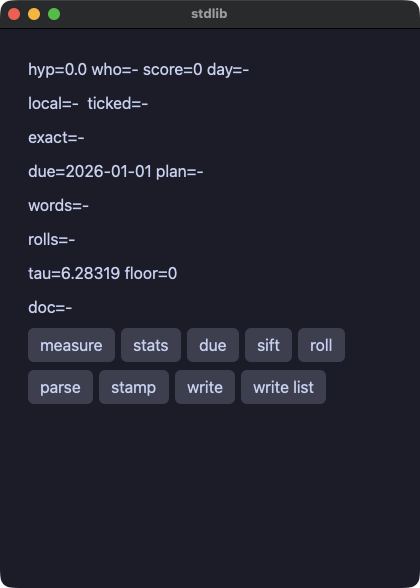
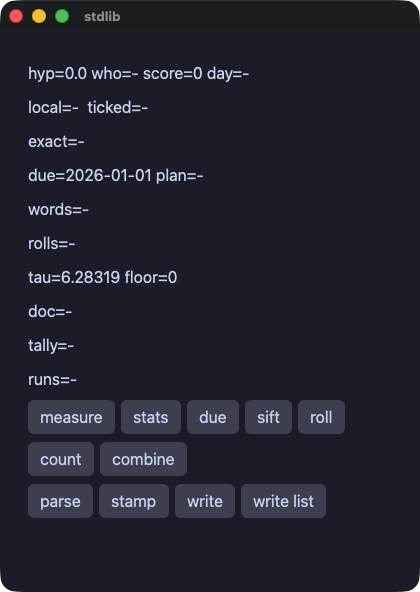
docs(stdlib): collections and itertools, and what each keeps out
The tour's Python half now names `collections` and `itertools`, with
`Counter` and the six combinators listed and an example of each. What
they keep out moves into the closing list with its reason, member by
member, instead of the two module names that used to sit there.

Grouping gets a place in the dict section, since a dict of lists now
reads with an empty-list default. Both languages, both copies.

The stdlib demo grew a count pane and a combine pane, so its gallery
shot was reshot — which is what showed that seven buttons in one row
ran off the window.

diff --git a/crates/yokan/TOUR.ja.md b/crates/yokan/TOUR.ja.md
@@ -564,6 +564,16 @@ def scan():
 無いキーで Python は KeyError を投げるので、無いときにどうするかを言う `.get(key, default)` が読みの形です。
 `.items()` は対で回ります。順序は同じ挿入順です。
 
+リストを値に持つ辞書でグループ分けができます。
+キーが無いときの意味は、空のリストです。
+
+```python
+groups: State[dict[str, list[str]]] = State({})
+
+for w in words():
+    groups[w[0]] = groups().get(w[0], []) + [w]
+```
+
 ## タプル
 
 タプルは位置ごとに部分を持つ値で、Python と同じ書き方で書き、同じ読み方で読みます。
@@ -860,7 +870,7 @@ except Exception as e:
 標準ライブラリは二つに分かれます。
 分かれ目は、名前がどこから来たかです。
 
-**Python 自身のモジュール**は、Python と同じ書き方で使います（`import math`、`import random`、`import statistics`、`import json`、`import datetime`、`import time`、`import re`、`import string`、`import textwrap`、`import bisect`、`import heapq`）。
+**Python 自身のモジュール**は、Python と同じ書き方で使います（`import math`、`import random`、`import statistics`、`import json`、`import datetime`、`import time`、`import re`、`import string`、`import textwrap`、`import bisect`、`import heapq`、`import collections`、`import itertools`）。
 開発中はアプリが CPython のモジュールを import し、CPython がそれを動かします。
 リリースバイナリは CPython の意味に合わせて書いた双子を呼び、CPython 自身が出力した正解表が、関数ごと、エラーごとに双子を縛ります。
 `math.sqrt(-1)` は Python が投げるところで投げ、`statistics.mean([0.1, 0.2, 0.3])` は素朴な和が返す `0.20000000000000004` ではなく厳密な `0.2` を返し、`random.seed(1)` は両方の実行で同じメルセンヌツイスタの列を始め、`json.dumps` は要素の間の `", "` から `\uXXXX` のエスケープまで CPython と同じ文字列を書き、`date` は `timedelta` を足し、別の `date` を引き、Python と同じ書式で自分を描きます。
@@ -912,10 +922,24 @@ Python 側がどこまで届くかは次のとおりです。
 `re` からは `findall`、`sub`、`split`、`escape` と、判定としての `re.search(p, s) is not None`（`match` と `fullmatch` も同じ）。
 パターンはリテラルです。アプリを翻訳する時点でコンパイルするからです。
 `string` からは九つの定数、`textwrap` からは `dedent` と `indent`、`bisect` からは `bisect_left` と `bisect_right`、`heapq` からは `nsmallest` と `nlargest`。
+`collections` からは `Counter`（str のリストを数えます）。
+数えた結果は初めて現れた順に並ぶ辞書で、辞書が答えるものすべてに加えて `.most_common()` と `.total()` を持ちます。
+`State` に入れると辞書として読み戻るので、順位は入れる前に取り出します。
+`itertools` からは `chain`、`pairwise`、`accumulate`、`combinations`、`permutations`、`product`。
+どれも Python ではイテレータを返すので、ここでは `for` で回すものになります。
 `datetime` からは `date`、`datetime`、`timedelta` の三つで、いずれも naive です。
 構築、`today` / `now` / `fromisoformat` / `fromtimestamp` / `fromordinal` / `combine`、各部分（`.year`、`.hour`、`.days` など）、`isoformat`、`strftime`、`weekday`、`toordinal`、`timestamp`、`total_seconds`、算術と比較が使えます。
 穴に置いた値は `str()` と同じ形で描かれます。
 CPython は `mean([1, 2, 3])` に int を、`mean([1, 2, 4])` に float を返すので、int のリストには一つの型が決まらず、断ります。
+
+```python
+c = Counter(votes())                       # {"ivy": 3, "momo": 2, "ada": 1}
+for name, n in c.most_common(2):           # 個数の多い順、同数なら現れた順
+    board.set(board() + f"{name}:{n} ")
+
+for a, b in itertools.pairwise(readings()):
+    steps.set(steps() + [b - a])
+```
 
 sqlite の呼び出しは、どれも最後にバインドする値のリストを取れます。
 
@@ -1221,7 +1245,7 @@ widgets.py:5:40: not in the dialect — text() does not take `weight=`
 - **スカラー、リスト、str キーの辞書、Value クラス、Optional 以外の `@py` の署名**（モデル、入れ子のコンテナ）。
 - **`print`**。stdout はヘッドレス実行の画面ダンプが出る場所なので、`log("…")` が同じ行を両方の実行で stderr に書きます。
 - **Yokan 自身のモジュールでは**：ファイルの属性（サイズ、時刻）とコピーや改名、ストリーミングやバイナリのダウンロード。
-- **Python のモジュールでは**：`math` の六つ（それぞれ理由を名指しして断ります）、`random` の `shuffle`（リストをその場で並べ替えるものですが、ここではリストは `State` の中にあります。`random.sample(xs(), len(xs()))` で新しい順序を取って書き戻します）と `gauss` 以外の分布、int のリストに対する `statistics`（返り値が値によって int か float かに変わるためです）。`json.loads` も断ります。返るものの形が実行するまで決まらないからで、読みは `jsondoc` のパスを通ります。`json.dumps` は、書き下したリテラルなら何段でも入れ子にできますが、アプリが保持している値は一段までです。`datetime` からは、タイムゾーン付きの値（`timezone`、`tzinfo`）、`datetime.time`、`replace`、`strptime`、リストや辞書に入れた `date`、ヘルパの引数としての `date` を断ります。`strftime` は CPython が自ら意味を定める指示子だけを取り、`%c`、`%x`、`%X`、`%-d` は断ります。何を返すかが機械の都合で決まるからです。`re` からは、Match（`re.search` を値として使うこと）と実行時に組み立てたパターンを断ります。後者は `@py` を教えます。小物のモジュールからは、リストをその場で並べ替えるもの（`heapq.heappush`、`bisect.insort`。リストは `State` の中にあります）と、`textwrap.wrap` / `fill` / `shorten`（CPython 自身の正規表現で語を分けます）を断ります。理由を名指しして断るモジュール：`pathlib`、`os`、`collections`、`itertools`、`decimal`、`hashlib`、`base64`、`zoneinfo`。
+- **Python のモジュールでは**：`math` の六つ（それぞれ理由を名指しして断ります）、`random` の `shuffle`（リストをその場で並べ替えるものですが、ここではリストは `State` の中にあります。`random.sample(xs(), len(xs()))` で新しい順序を取って書き戻します）と `gauss` 以外の分布、int のリストに対する `statistics`（返り値が値によって int か float かに変わるためです）。`json.loads` も断ります。返るものの形が実行するまで決まらないからで、読みは `jsondoc` のパスを通ります。`json.dumps` は、書き下したリテラルなら何段でも入れ子にできますが、アプリが保持している値は一段までです。`datetime` からは、タイムゾーン付きの値（`timezone`、`tzinfo`）、`datetime.time`、`replace`、`strptime`、リストや辞書に入れた `date`、ヘルパの引数としての `date` を断ります。`strftime` は CPython が自ら意味を定める指示子だけを取り、`%c`、`%x`、`%X`、`%-d` は断ります。何を返すかが機械の都合で決まるからです。`re` からは、Match（`re.search` を値として使うこと）と実行時に組み立てたパターンを断ります。後者は `@py` を教えます。小物のモジュールからは、リストをその場で並べ替えるもの（`heapq.heappush`、`bisect.insort`。リストは `State` の中にあります）と、`textwrap.wrap` / `fill` / `shorten`（CPython 自身の正規表現で語を分けます）を断ります。`collections` からは `Counter` 以外を断ります：`defaultdict`（キーが無いときに何を返すかは、ここでは読む側が言います）、`deque`（その場で書き換えるものですが、リストは `State` の中にあります）、`namedtuple`（`@value` クラスが型付きで同じことを言います）、`OrderedDict`（ここでの辞書はすでに順序を覚えています）、`ChainMap`。`itertools` からは、終わらないもの（`count`、`cycle`、`repeat`）、それ自体がイテレータを返すもの（`groupby`、`tee`）、関数を取るもの（`starmap`、`takewhile`、`filterfalse`）、最後のタプルだけ形の違う `batched` を断ります。理由を名指しして断るモジュール：`pathlib`、`os`、`decimal`、`hashlib`、`base64`、`zoneinfo`。
 - **新しい要素の周辺**。表の列幅はドラッグで変えられず、行のキーボード操作と複数選択もありません。チャートにはホバーでの読み取りと凡例がありません。`select` はキーボードで操作できません。ツールチップの表示はスクリプトからホバーで確かめられません（文字列自体はダンプに出ます）。いずれもヘッドレスの検証にまだ無い動詞を待っています。
 - **二つめのウィンドウ**。いまは一アプリに一ウィンドウです。engine のウィンドウルートがビューひとつを前提に書かれていて、ヘッドレス実行のダンプもその一本のツリーだからです。ショートカット、クリップボード、メニューバー、ファイルダイアログ、落とされたファイル、ツールチップ、複数行フィールドは入っています。
 - **素のラッパを超えるデコレータの形**：自分が引数を取るもの、ラッパが関数を二度呼ぶもの、関数の戻り値を使うもの。関数をそのまま返すデコレータと、一度だけ呼ぶラッパはコンパイルされます。

diff --git a/crates/yokan/TOUR.md b/crates/yokan/TOUR.md
@@ -548,6 +548,15 @@ A compiled dict remembers the order its keys went in, so a walk visits them in t
 Bare `d[k]` reads are refused: they raise `KeyError` when the key is missing, and `.get(key, default)` says what a missing key means.
 `.items()` walks the pairs, in the same insertion order.
 
+A dict of lists groups, with the empty list as what a missing key means:
+
+```python
+groups: State[dict[str, list[str]]] = State({})
+
+for w in words():
+    groups[w[0]] = groups().get(w[0], []) + [w]
+```
+
 ## Tuples
 
 A tuple is a value with a part for each position, written and read the way Python writes one.
@@ -851,7 +860,7 @@ except Exception as e:
 
 It comes in two halves, told apart by where the name comes from.
 
-**Python's own modules**, written the way Python writes them: `import math`, `import random`, `import statistics`, `import json`, `import datetime`, `import time`, `import re`, `import string`, `import textwrap`, `import bisect`, `import heapq`.
+**Python's own modules**, written the way Python writes them: `import math`, `import random`, `import statistics`, `import json`, `import datetime`, `import time`, `import re`, `import string`, `import textwrap`, `import bisect`, `import heapq`, `import collections`, `import itertools`.
 During development the app imports CPython's module and CPython runs it.
 The shipped binary calls a twin written against CPython's semantics, and a table of answers CPython itself printed holds the twin to it, function by function and error by error.
 `math.sqrt(-1)` raises where Python raises; `statistics.mean([0.1, 0.2, 0.3])` is `0.2`, the exact answer, not the `0.20000000000000004` a plain sum gives; `random.seed(1)` starts the same Mersenne Twister sequence in both runs; `json.dumps` writes what CPython writes, down to the `", "` between the parts and the `\uXXXX` escapes; a `date` adds a `timedelta`, subtracts another date and formats itself the way Python's does; and a regular expression is compiled by CPython itself while the app translates, so the shipped binary runs the very array Python would have run — the backtracking, the groups and the flags are CPython's, not a second dialect of them.
@@ -898,7 +907,19 @@ From `json`: `dumps`, with CPython's defaults and no keyword arguments.
 From `time`: `time`, `time_ns`, `monotonic`, `monotonic_ns`, `perf_counter`, `perf_counter_ns`, `sleep`.
 From `re`: `findall`, `sub`, `split`, `escape`, and `re.search(p, s) is not None` (with `match` and `fullmatch`) as the test. The pattern is a literal, because it is compiled while the app translates.
 From `string`: the nine constants. From `textwrap`: `dedent` and `indent`. From `bisect`: `bisect_left`, `bisect_right`. From `heapq`: `nsmallest`, `nlargest`.
+From `collections`: `Counter`, over a list of str — the dict of counts, keyed in first-seen order, with `.most_common()` and `.total()` beside everything a dict answers.
+A Counter held in a `State` reads back as the dict it is, so take the counts out before storing it.
+From `itertools`: `chain`, `pairwise`, `accumulate`, `combinations`, `permutations` and `product`, each of which answers an iterator in Python and is therefore what a `for` walks here.
 From `datetime`: `date`, `datetime` and `timedelta`, all of them naive — construction, `today` / `now` / `fromisoformat` / `fromtimestamp` / `fromordinal` / `combine`, the parts (`.year`, `.hour`, `.days`, …), `isoformat`, `strftime`, `weekday`, `toordinal`, `timestamp`, `total_seconds`, arithmetic and comparison. A value renders in a hole the way `str()` renders it.
+
+```python
+c = Counter(votes())                       # {"ivy": 3, "momo": 2, "ada": 1}
+for name, n in c.most_common(2):           # by count, ties in first-seen order
+    board.set(board() + f"{name}:{n} ")
+
+for a, b in itertools.pairwise(readings()):
+    steps.set(steps() + [b - a])
+```
 
 Every sqlite call takes one more argument, a list of values to bind:
 
@@ -1209,7 +1230,7 @@ What Yokan cannot do as of today, with the reason for each refusal:
 - **`@py` signatures beyond scalars, lists, str-keyed dicts, value classes and Optionals** (models, nested containers).
 - **`print`.** It writes to stdout, which is where a headless run's screen dump goes; `log("…")` writes the same line to stderr in both runs.
 - **In Yokan's own modules**: file metadata (size, times) and copying or renaming, and streaming or binary downloads.
-- **In Python's modules**: six members of `math` (each refused by name with its reason), `random`'s `shuffle` (it reorders a list in place, and a list lives in a `State` — take a new order with `random.sample(xs(), len(xs()))` and write it back) and its distributions beyond `gauss`, and `statistics` over a list of ints (its answer would be an int or a float depending on the values). From `datetime`: an aware value (`timezone`, `tzinfo`), `datetime.time`, `replace`, `strptime`, a `date` in a list or a dict, and a `date` as a helper's parameter. `strftime` takes the directives CPython gives a meaning of its own; `%c`, `%x`, `%X` and `%-d` are refused, because what they answer is the machine's business. `json.loads` is refused too: what it answers has no shape until it runs, so reads go through `jsondoc`'s paths, and a `json.dumps` of a value the app is holding reaches one level of nesting where a literal reaches any. From `re`: a `Match` (`re.search` used as a value), and a pattern built at run time — both refused by name, the second one pointing at `@py`. From the small modules: what rearranges a list in place (`heapq.heappush`, `bisect.insort`), because a list lives in a `State` here, and `textwrap.wrap` / `fill` / `shorten`, which split words with a regular expression of CPython's own. Modules that stay out for a reason the refusal names: `pathlib`, `os`, `collections`, `itertools`, `decimal`, `hashlib`, `base64`, `zoneinfo`.
+- **In Python's modules**: six members of `math` (each refused by name with its reason), `random`'s `shuffle` (it reorders a list in place, and a list lives in a `State` — take a new order with `random.sample(xs(), len(xs()))` and write it back) and its distributions beyond `gauss`, and `statistics` over a list of ints (its answer would be an int or a float depending on the values). From `datetime`: an aware value (`timezone`, `tzinfo`), `datetime.time`, `replace`, `strptime`, a `date` in a list or a dict, and a `date` as a helper's parameter. `strftime` takes the directives CPython gives a meaning of its own; `%c`, `%x`, `%X` and `%-d` are refused, because what they answer is the machine's business. `json.loads` is refused too: what it answers has no shape until it runs, so reads go through `jsondoc`'s paths, and a `json.dumps` of a value the app is holding reaches one level of nesting where a literal reaches any. From `re`: a `Match` (`re.search` used as a value), and a pattern built at run time — both refused by name, the second one pointing at `@py`. From the small modules: what rearranges a list in place (`heapq.heappush`, `bisect.insort`), because a list lives in a `State` here, and `textwrap.wrap` / `fill` / `shorten`, which split words with a regular expression of CPython's own. From `collections`: everything but `Counter` — `defaultdict` (what a missing key answers is asked at the read here), `deque` (it works in place, and a list lives in a `State`), `namedtuple` (a `@value` class says it with types), `OrderedDict` (a dict here already keeps its order) and `ChainMap`. From `itertools`: what never ends (`count`, `cycle`, `repeat`), what yields an iterator of its own (`groupby`, `tee`), what takes a function (`starmap`, `takewhile`, `filterfalse`) and `batched`, whose last tuple is a different shape from the rest. Modules that stay out for a reason the refusal names: `pathlib`, `os`, `decimal`, `hashlib`, `base64`, `zoneinfo`.
 - **Around the new elements**: a table's columns cannot be resized by dragging, and its rows have no keyboard navigation or multi-select; charts have no hover readout and no legend; `select` has no keyboard operation; a tooltip's appearance is not something a script can hover for (its text is in the dump). Each waits on a verb the headless harness does not have yet.
 - **A second window.** One app, one window today: the engine's window root is written for a single view, and a headless run's dump is that one tree. Shortcuts, the clipboard, the menu bar, file dialogs, dropped files, tooltips and the multi-line field are all in.
 - **Decorator shapes beyond a plain wrapper**: one that takes arguments of its own, one whose wrapper calls the function twice or uses its value. A decorator that returns the function, or a wrapper calling it once, compiles.

diff --git a/website/docs-ja/tour-ship.md b/website/docs-ja/tour-ship.md
@@ -121,7 +121,7 @@ widgets.py:5:40: not in the dialect — text() does not take `weight=`
 - **スカラー、リスト、str キーの辞書、Value クラス、Optional 以外の `@py` の署名**（モデル、入れ子のコンテナ）。
 - **`print`**。stdout はヘッドレス実行の画面ダンプが出る場所なので、`log("…")` が同じ行を両方の実行で stderr に書きます。
 - **Yokan 自身のモジュールでは**：ファイルの属性（サイズ、時刻）とコピーや改名、ストリーミングやバイナリのダウンロード。
-- **Python のモジュールでは**：`math` の六つ（それぞれ理由を名指しして断ります）、`random` の `shuffle`（リストをその場で並べ替えるものですが、ここではリストは `State` の中にあります。`random.sample(xs(), len(xs()))` で新しい順序を取って書き戻します）と `gauss` 以外の分布、int のリストに対する `statistics`（返り値が値によって int か float かに変わるためです）。`json.loads` も断ります。返るものの形が実行するまで決まらないからで、読みは `jsondoc` のパスを通ります。`json.dumps` は、書き下したリテラルなら何段でも入れ子にできますが、アプリが保持している値は一段までです。`datetime` からは、タイムゾーン付きの値（`timezone`、`tzinfo`）、`datetime.time`、`replace`、`strptime`、リストや辞書に入れた `date`、ヘルパの引数としての `date` を断ります。`strftime` は CPython が自ら意味を定める指示子だけを取り、`%c`、`%x`、`%X`、`%-d` は断ります。何を返すかが機械の都合で決まるからです。`re` からは、Match（`re.search` を値として使うこと）と実行時に組み立てたパターンを断ります。後者は `@py` を教えます。小物のモジュールからは、リストをその場で並べ替えるもの（`heapq.heappush`、`bisect.insort`。リストは `State` の中にあります）と、`textwrap.wrap` / `fill` / `shorten`（CPython 自身の正規表現で語を分けます）を断ります。理由を名指しして断るモジュール：`pathlib`、`os`、`collections`、`itertools`、`decimal`、`hashlib`、`base64`、`zoneinfo`。
+- **Python のモジュールでは**：`math` の六つ（それぞれ理由を名指しして断ります）、`random` の `shuffle`（リストをその場で並べ替えるものですが、ここではリストは `State` の中にあります。`random.sample(xs(), len(xs()))` で新しい順序を取って書き戻します）と `gauss` 以外の分布、int のリストに対する `statistics`（返り値が値によって int か float かに変わるためです）。`json.loads` も断ります。返るものの形が実行するまで決まらないからで、読みは `jsondoc` のパスを通ります。`json.dumps` は、書き下したリテラルなら何段でも入れ子にできますが、アプリが保持している値は一段までです。`datetime` からは、タイムゾーン付きの値（`timezone`、`tzinfo`）、`datetime.time`、`replace`、`strptime`、リストや辞書に入れた `date`、ヘルパの引数としての `date` を断ります。`strftime` は CPython が自ら意味を定める指示子だけを取り、`%c`、`%x`、`%X`、`%-d` は断ります。何を返すかが機械の都合で決まるからです。`re` からは、Match（`re.search` を値として使うこと）と実行時に組み立てたパターンを断ります。後者は `@py` を教えます。小物のモジュールからは、リストをその場で並べ替えるもの（`heapq.heappush`、`bisect.insort`。リストは `State` の中にあります）と、`textwrap.wrap` / `fill` / `shorten`（CPython 自身の正規表現で語を分けます）を断ります。`collections` からは `Counter` 以外を断ります：`defaultdict`（キーが無いときに何を返すかは、ここでは読む側が言います）、`deque`（その場で書き換えるものですが、リストは `State` の中にあります）、`namedtuple`（`@value` クラスが型付きで同じことを言います）、`OrderedDict`（ここでの辞書はすでに順序を覚えています）、`ChainMap`。`itertools` からは、終わらないもの（`count`、`cycle`、`repeat`）、それ自体がイテレータを返すもの（`groupby`、`tee`）、関数を取るもの（`starmap`、`takewhile`、`filterfalse`）、最後のタプルだけ形の違う `batched` を断ります。理由を名指しして断るモジュール：`pathlib`、`os`、`decimal`、`hashlib`、`base64`、`zoneinfo`。
 - **新しい要素の周辺**。表の列幅はドラッグで変えられず、行のキーボード操作と複数選択もありません。チャートにはホバーでの読み取りと凡例がありません。`select` はキーボードで操作できません。ツールチップの表示はスクリプトからホバーで確かめられません（文字列自体はダンプに出ます）。いずれもヘッドレスの検証にまだ無い動詞を待っています。
 - **二つめのウィンドウ**。いまは一アプリに一ウィンドウです。engine のウィンドウルートがビューひとつを前提に書かれていて、ヘッドレス実行のダンプもその一本のツリーだからです。ショートカット、クリップボード、メニューバー、ファイルダイアログ、落とされたファイル、ツールチップ、複数行フィールドは入っています。
 - **素のラッパを超えるデコレータの形**：自分が引数を取るもの、ラッパが関数を二度呼ぶもの、関数の戻り値を使うもの。関数をそのまま返すデコレータと、一度だけ呼ぶラッパはコンパイルされます。

diff --git a/website/docs/tour-ship.md b/website/docs/tour-ship.md
@@ -119,7 +119,7 @@ What Yokan cannot do as of today, with the reason for each refusal:
 - **`@py` signatures beyond scalars, lists, str-keyed dicts, value classes and Optionals** (models, nested containers).
 - **`print`.** It writes to stdout, which is where a headless run's screen dump goes; `log("…")` writes the same line to stderr in both runs.
 - **In Yokan's own modules**: file metadata (size, times) and copying or renaming, and streaming or binary downloads.
-- **In Python's modules**: six members of `math` (each refused by name with its reason), `random`'s `shuffle` (it reorders a list in place, and a list lives in a `State` — take a new order with `random.sample(xs(), len(xs()))` and write it back) and its distributions beyond `gauss`, and `statistics` over a list of ints (its answer would be an int or a float depending on the values). From `datetime`: an aware value (`timezone`, `tzinfo`), `datetime.time`, `replace`, `strptime`, a `date` in a list or a dict, and a `date` as a helper's parameter. `strftime` takes the directives CPython gives a meaning of its own; `%c`, `%x`, `%X` and `%-d` are refused, because what they answer is the machine's business. `json.loads` is refused too: what it answers has no shape until it runs, so reads go through `jsondoc`'s paths, and a `json.dumps` of a value the app is holding reaches one level of nesting where a literal reaches any. From `re`: a `Match` (`re.search` used as a value), and a pattern built at run time — both refused by name, the second one pointing at `@py`. From the small modules: what rearranges a list in place (`heapq.heappush`, `bisect.insort`), because a list lives in a `State` here, and `textwrap.wrap` / `fill` / `shorten`, which split words with a regular expression of CPython's own. Modules that stay out for a reason the refusal names: `pathlib`, `os`, `collections`, `itertools`, `decimal`, `hashlib`, `base64`, `zoneinfo`.
+- **In Python's modules**: six members of `math` (each refused by name with its reason), `random`'s `shuffle` (it reorders a list in place, and a list lives in a `State` — take a new order with `random.sample(xs(), len(xs()))` and write it back) and its distributions beyond `gauss`, and `statistics` over a list of ints (its answer would be an int or a float depending on the values). From `datetime`: an aware value (`timezone`, `tzinfo`), `datetime.time`, `replace`, `strptime`, a `date` in a list or a dict, and a `date` as a helper's parameter. `strftime` takes the directives CPython gives a meaning of its own; `%c`, `%x`, `%X` and `%-d` are refused, because what they answer is the machine's business. `json.loads` is refused too: what it answers has no shape until it runs, so reads go through `jsondoc`'s paths, and a `json.dumps` of a value the app is holding reaches one level of nesting where a literal reaches any. From `re`: a `Match` (`re.search` used as a value), and a pattern built at run time — both refused by name, the second one pointing at `@py`. From the small modules: what rearranges a list in place (`heapq.heappush`, `bisect.insort`), because a list lives in a `State` here, and `textwrap.wrap` / `fill` / `shorten`, which split words with a regular expression of CPython's own. From `collections`: everything but `Counter` — `defaultdict` (what a missing key answers is asked at the read here), `deque` (it works in place, and a list lives in a `State`), `namedtuple` (a `@value` class says it with types), `OrderedDict` (a dict here already keeps its order) and `ChainMap`. From `itertools`: what never ends (`count`, `cycle`, `repeat`), what yields an iterator of its own (`groupby`, `tee`), what takes a function (`starmap`, `takewhile`, `filterfalse`) and `batched`, whose last tuple is a different shape from the rest. Modules that stay out for a reason the refusal names: `pathlib`, `os`, `decimal`, `hashlib`, `base64`, `zoneinfo`.
 - **Around the new elements**: a table's columns cannot be resized by dragging, and its rows have no keyboard navigation or multi-select; charts have no hover readout and no legend; `select` has no keyboard operation; a tooltip's appearance is not something a script can hover for (its text is in the dump). Each waits on a verb the headless harness does not have yet.
 - **A second window.** One app, one window today: the engine's window root is written for a single view, and a headless run's dump is that one tree. Shortcuts, the clipboard, the menu bar, file dialogs, dropped files, tooltips and the multi-line field are all in.
 - **Decorator shapes beyond a plain wrapper**: one that takes arguments of its own, one whose wrapper calls the function twice or uses its value. A decorator that returns the function, or a wrapper calling it once, compiles.

diff --git a/website/docs-ja/tour-lib.md b/website/docs-ja/tour-lib.md
@@ -26,7 +26,7 @@ except Exception as e:
 標準ライブラリは二つに分かれます。
 分かれ目は、名前がどこから来たかです。
 
-**Python 自身のモジュール**は、Python と同じ書き方で使います（`import math`、`import random`、`import statistics`、`import json`、`import datetime`、`import time`、`import re`、`import string`、`import textwrap`、`import bisect`、`import heapq`）。
+**Python 自身のモジュール**は、Python と同じ書き方で使います（`import math`、`import random`、`import statistics`、`import json`、`import datetime`、`import time`、`import re`、`import string`、`import textwrap`、`import bisect`、`import heapq`、`import collections`、`import itertools`）。
 開発中はアプリが CPython のモジュールを import し、CPython がそれを動かします。
 リリースバイナリは CPython の意味に合わせて書いた双子を呼び、CPython 自身が出力した正解表が、関数ごと、エラーごとに双子を縛ります。
 `math.sqrt(-1)` は Python が投げるところで投げ、`statistics.mean([0.1, 0.2, 0.3])` は素朴な和が返す `0.20000000000000004` ではなく厳密な `0.2` を返し、`random.seed(1)` は両方の実行で同じメルセンヌツイスタの列を始め、`json.dumps` は要素の間の `", "` から `\uXXXX` のエスケープまで CPython と同じ文字列を書き、`date` は `timedelta` を足し、別の `date` を引き、Python と同じ書式で自分を描きます。
@@ -78,10 +78,24 @@ Python 側がどこまで届くかは次のとおりです。
 `re` からは `findall`、`sub`、`split`、`escape` と、判定としての `re.search(p, s) is not None`（`match` と `fullmatch` も同じ）。
 パターンはリテラルです。アプリを翻訳する時点でコンパイルするからです。
 `string` からは九つの定数、`textwrap` からは `dedent` と `indent`、`bisect` からは `bisect_left` と `bisect_right`、`heapq` からは `nsmallest` と `nlargest`。
+`collections` からは `Counter`（str のリストを数えます）。
+数えた結果は初めて現れた順に並ぶ辞書で、辞書が答えるものすべてに加えて `.most_common()` と `.total()` を持ちます。
+`State` に入れると辞書として読み戻るので、順位は入れる前に取り出します。
+`itertools` からは `chain`、`pairwise`、`accumulate`、`combinations`、`permutations`、`product`。
+どれも Python ではイテレータを返すので、ここでは `for` で回すものになります。
 `datetime` からは `date`、`datetime`、`timedelta` の三つで、いずれも naive です。
 構築、`today` / `now` / `fromisoformat` / `fromtimestamp` / `fromordinal` / `combine`、各部分（`.year`、`.hour`、`.days` など）、`isoformat`、`strftime`、`weekday`、`toordinal`、`timestamp`、`total_seconds`、算術と比較が使えます。
 穴に置いた値は `str()` と同じ形で描かれます。
 CPython は `mean([1, 2, 3])` に int を、`mean([1, 2, 4])` に float を返すので、int のリストには一つの型が決まらず、断ります。
+
+```python
+c = Counter(votes())                       # {"ivy": 3, "momo": 2, "ada": 1}
+for name, n in c.most_common(2):           # 個数の多い順、同数なら現れた順
+    board.set(board() + f"{name}:{n} ")
+
+for a, b in itertools.pairwise(readings()):
+    steps.set(steps() + [b - a])
+```
 
 sqlite の呼び出しは、どれも最後にバインドする値のリストを取れます。
 

diff --git a/website/docs/tour-lib.md b/website/docs/tour-lib.md
@@ -25,7 +25,7 @@ except Exception as e:
 
 It comes in two halves, told apart by where the name comes from.
 
-**Python's own modules**, written the way Python writes them: `import math`, `import random`, `import statistics`, `import json`, `import datetime`, `import time`, `import re`, `import string`, `import textwrap`, `import bisect`, `import heapq`.
+**Python's own modules**, written the way Python writes them: `import math`, `import random`, `import statistics`, `import json`, `import datetime`, `import time`, `import re`, `import string`, `import textwrap`, `import bisect`, `import heapq`, `import collections`, `import itertools`.
 During development the app imports CPython's module and CPython runs it.
 The shipped binary calls a twin written against CPython's semantics, and a table of answers CPython itself printed holds the twin to it, function by function and error by error.
 `math.sqrt(-1)` raises where Python raises; `statistics.mean([0.1, 0.2, 0.3])` is `0.2`, the exact answer, not the `0.20000000000000004` a plain sum gives; `random.seed(1)` starts the same Mersenne Twister sequence in both runs; `json.dumps` writes what CPython writes, down to the `", "` between the parts and the `\uXXXX` escapes; a `date` adds a `timedelta`, subtracts another date and formats itself the way Python's does; and a regular expression is compiled by CPython itself while the app translates, so the shipped binary runs the very array Python would have run — the backtracking, the groups and the flags are CPython's, not a second dialect of them.
@@ -72,7 +72,19 @@ From `json`: `dumps`, with CPython's defaults and no keyword arguments.
 From `time`: `time`, `time_ns`, `monotonic`, `monotonic_ns`, `perf_counter`, `perf_counter_ns`, `sleep`.
 From `re`: `findall`, `sub`, `split`, `escape`, and `re.search(p, s) is not None` (with `match` and `fullmatch`) as the test. The pattern is a literal, because it is compiled while the app translates.
 From `string`: the nine constants. From `textwrap`: `dedent` and `indent`. From `bisect`: `bisect_left`, `bisect_right`. From `heapq`: `nsmallest`, `nlargest`.
+From `collections`: `Counter`, over a list of str — the dict of counts, keyed in first-seen order, with `.most_common()` and `.total()` beside everything a dict answers.
+A Counter held in a `State` reads back as the dict it is, so take the counts out before storing it.
+From `itertools`: `chain`, `pairwise`, `accumulate`, `combinations`, `permutations` and `product`, each of which answers an iterator in Python and is therefore what a `for` walks here.
 From `datetime`: `date`, `datetime` and `timedelta`, all of them naive — construction, `today` / `now` / `fromisoformat` / `fromtimestamp` / `fromordinal` / `combine`, the parts (`.year`, `.hour`, `.days`, …), `isoformat`, `strftime`, `weekday`, `toordinal`, `timestamp`, `total_seconds`, arithmetic and comparison. A value renders in a hole the way `str()` renders it.
+
+```python
+c = Counter(votes())                       # {"ivy": 3, "momo": 2, "ada": 1}
+for name, n in c.most_common(2):           # by count, ties in first-seen order
+    board.set(board() + f"{name}:{n} ")
+
+for a, b in itertools.pairwise(readings()):
+    steps.set(steps() + [b - a])
+```
 
 Every sqlite call takes one more argument, a list of values to bind:
 

diff --git a/crates/yokan/DESIGN.md b/crates/yokan/DESIGN.md
@@ -1294,3 +1294,51 @@ written — and shows up the moment the result is indexed or measured.
 It is now what Python says it is: a `for` iterable. Where a list is
 wanted the spelling is `xs[::-1]`, which is a list in Python too, and
 the refusal for the old shape names it.
+
+## Two of Python's modules are written out, not called
+
+`collections` and `itertools` answer shape rather than arithmetic: a
+count, a pairing, a product. There is nothing for a Rust twin to
+compute — what they need is a loop, and the dialect can write loops.
+So the translator writes the loop each call stands for, and the
+interpreted run, which is CPython's own module, is what the gate
+compares it against. That is a stronger check than a table of
+answers, not a weaker one: the real module is running on the other
+side of every comparison.
+
+This is where the tuples and the generic containers were leading. A
+`Counter` is a dict of counts; `most_common` is a stable sort by the
+count, which the container now does for any element; `pairwise` and
+`combinations` answer lists of tuples, which are values here. Nothing
+new crosses the crate boundary for any of it.
+
+## An iterator belongs in a `for`
+
+Every `itertools` combinator answers a lazy iterator in Python. A
+`for` cannot tell laziness from a list — the same elements in the
+same order, and `break` stops at the same place because the list is
+built before the loop runs — so that is the one place these are
+taken. As a value they are refused, and the refusal names the `for`.
+It is the rule `reversed` already follows.
+
+The combinators that never end (`count`, `cycle`, `repeat`) are
+refused for the reason that makes them useful in Python and useless
+here. The ones that yield an iterator of their own (`groupby`, `tee`)
+have nothing to become. `batched`'s last tuple is a different shape
+from the rest, and a tuple's shape is written out.
+
+## A Counter is a dict, and only a Counter has `most_common`
+
+Python's `Counter` is a dict subclass, so it is a dict here: walked,
+measured, tested with `in`, read with `.get`. What a plain dict does
+not have is `.most_common` and `.total`, and neither does one here —
+the translator remembers which locals came from a `Counter(...)`, and
+a plain dict asking for `.most_common` is refused the way Python
+refuses it.
+
+`defaultdict` is the one member deliberately left out rather than
+deferred. Its whole purpose is to answer for a missing key at the
+dict; this dialect asks that question at the read instead, which is
+the same reason bare `d[k]` is refused. Counting is `Counter`, and
+grouping writes the list back — which now works, because a dict of
+lists reads with `.get(k, [])`.

diff --git a/crates/yokan/skill/SKILL.md b/crates/yokan/skill/SKILL.md
@@ -385,8 +385,8 @@ def tally():
 
 - `if` / `elif` / `else`, `while`, `for` (over `range()` with one or
   two arguments, a list state, a list field, a list parameter,
-  `sorted(d())`, or `sorted(xs)` / `reversed(xs)`), `break` /
-  `continue`, locals (reassignable).
+  `sorted(d())`, `sorted(xs)` / `reversed(xs)`, or an `itertools`
+  combinator), `break` / `continue`, locals (reassignable).
 - A local assigned in **both** arms of an `if` / `else` reads after
   the branch; assigned in one arm only, it is refused (Python would
   raise NameError on the other path). Loop variables do not outlive
@@ -470,7 +470,8 @@ Two layers, told apart by where the name comes from.
 **Python's own**: `import math`, `import random`, `import
 statistics`, `import json`, `import datetime`, `import time`,
 `import re`, `import string`, `import textwrap`, `import bisect`,
-`import heapq`, written as Python writes them. Development imports
+`import heapq`, `import collections`, `import itertools`, written as
+Python writes them. Development imports
 CPython's module; the shipped binary calls a twin held to CPython by
 a table CPython printed, error messages included. `math` and
 `statistics` are pure, so a view may call them; `random` moves a
@@ -537,6 +538,13 @@ small modules: `string`'s constants, `textwrap.dedent` / `indent`,
 `bisect_left` / `bisect_right`, `heapq.nsmallest` / `nlargest`, and
 the rest of `str` (`title`, `zfill`, `ljust`, `center`, the `is…`
 family, `removeprefix`, `splitlines`, `expandtabs`, `strip(chars)`).
+From `collections`: `Counter(list[str])` — a dict of counts in
+first-seen order, with `.most_common(n?)` and `.total()` on top of
+everything a dict answers; the rest of the module is refused by
+name. From `itertools`: `chain`, `pairwise`, `accumulate`,
+`combinations(xs, r)`, `permutations(xs, r)` (r a literal) and
+`product(a, b)` — each answers an iterator in Python, so each is
+what a `for` walks and none is a value.
 Anything that rearranges a list in place is refused: a list lives in
 a `State`.
 

diff --git a/website/docs-ja/tour-logic.md b/website/docs-ja/tour-logic.md
@@ -251,6 +251,16 @@ def scan():
 無いキーで Python は KeyError を投げるので、無いときにどうするかを言う `.get(key, default)` が読みの形です。
 `.items()` は対で回ります。順序は同じ挿入順です。
 
+リストを値に持つ辞書でグループ分けができます。
+キーが無いときの意味は、空のリストです。
+
+```python
+groups: State[dict[str, list[str]]] = State({})
+
+for w in words():
+    groups[w[0]] = groups().get(w[0], []) + [w]
+```
+
 ## タプル
 
 タプルは位置ごとに部分を持つ値で、Python と同じ書き方で書き、同じ読み方で読みます。

diff --git a/website/docs/tour-logic.md b/website/docs/tour-logic.md
@@ -237,6 +237,15 @@ A compiled dict remembers the order its keys went in, so a walk visits them in t
 Bare `d[k]` reads are refused: they raise `KeyError` when the key is missing, and `.get(key, default)` says what a missing key means.
 `.items()` walks the pairs, in the same insertion order.
 
+A dict of lists groups, with the empty list as what a missing key means:
+
+```python
+groups: State[dict[str, list[str]]] = State({})
+
+for w in words():
+    groups[w[0]] = groups().get(w[0], []) + [w]
+```
+
 ## Tuples
 
 A tuple is a value with a part for each position, written and read the way Python writes one.
